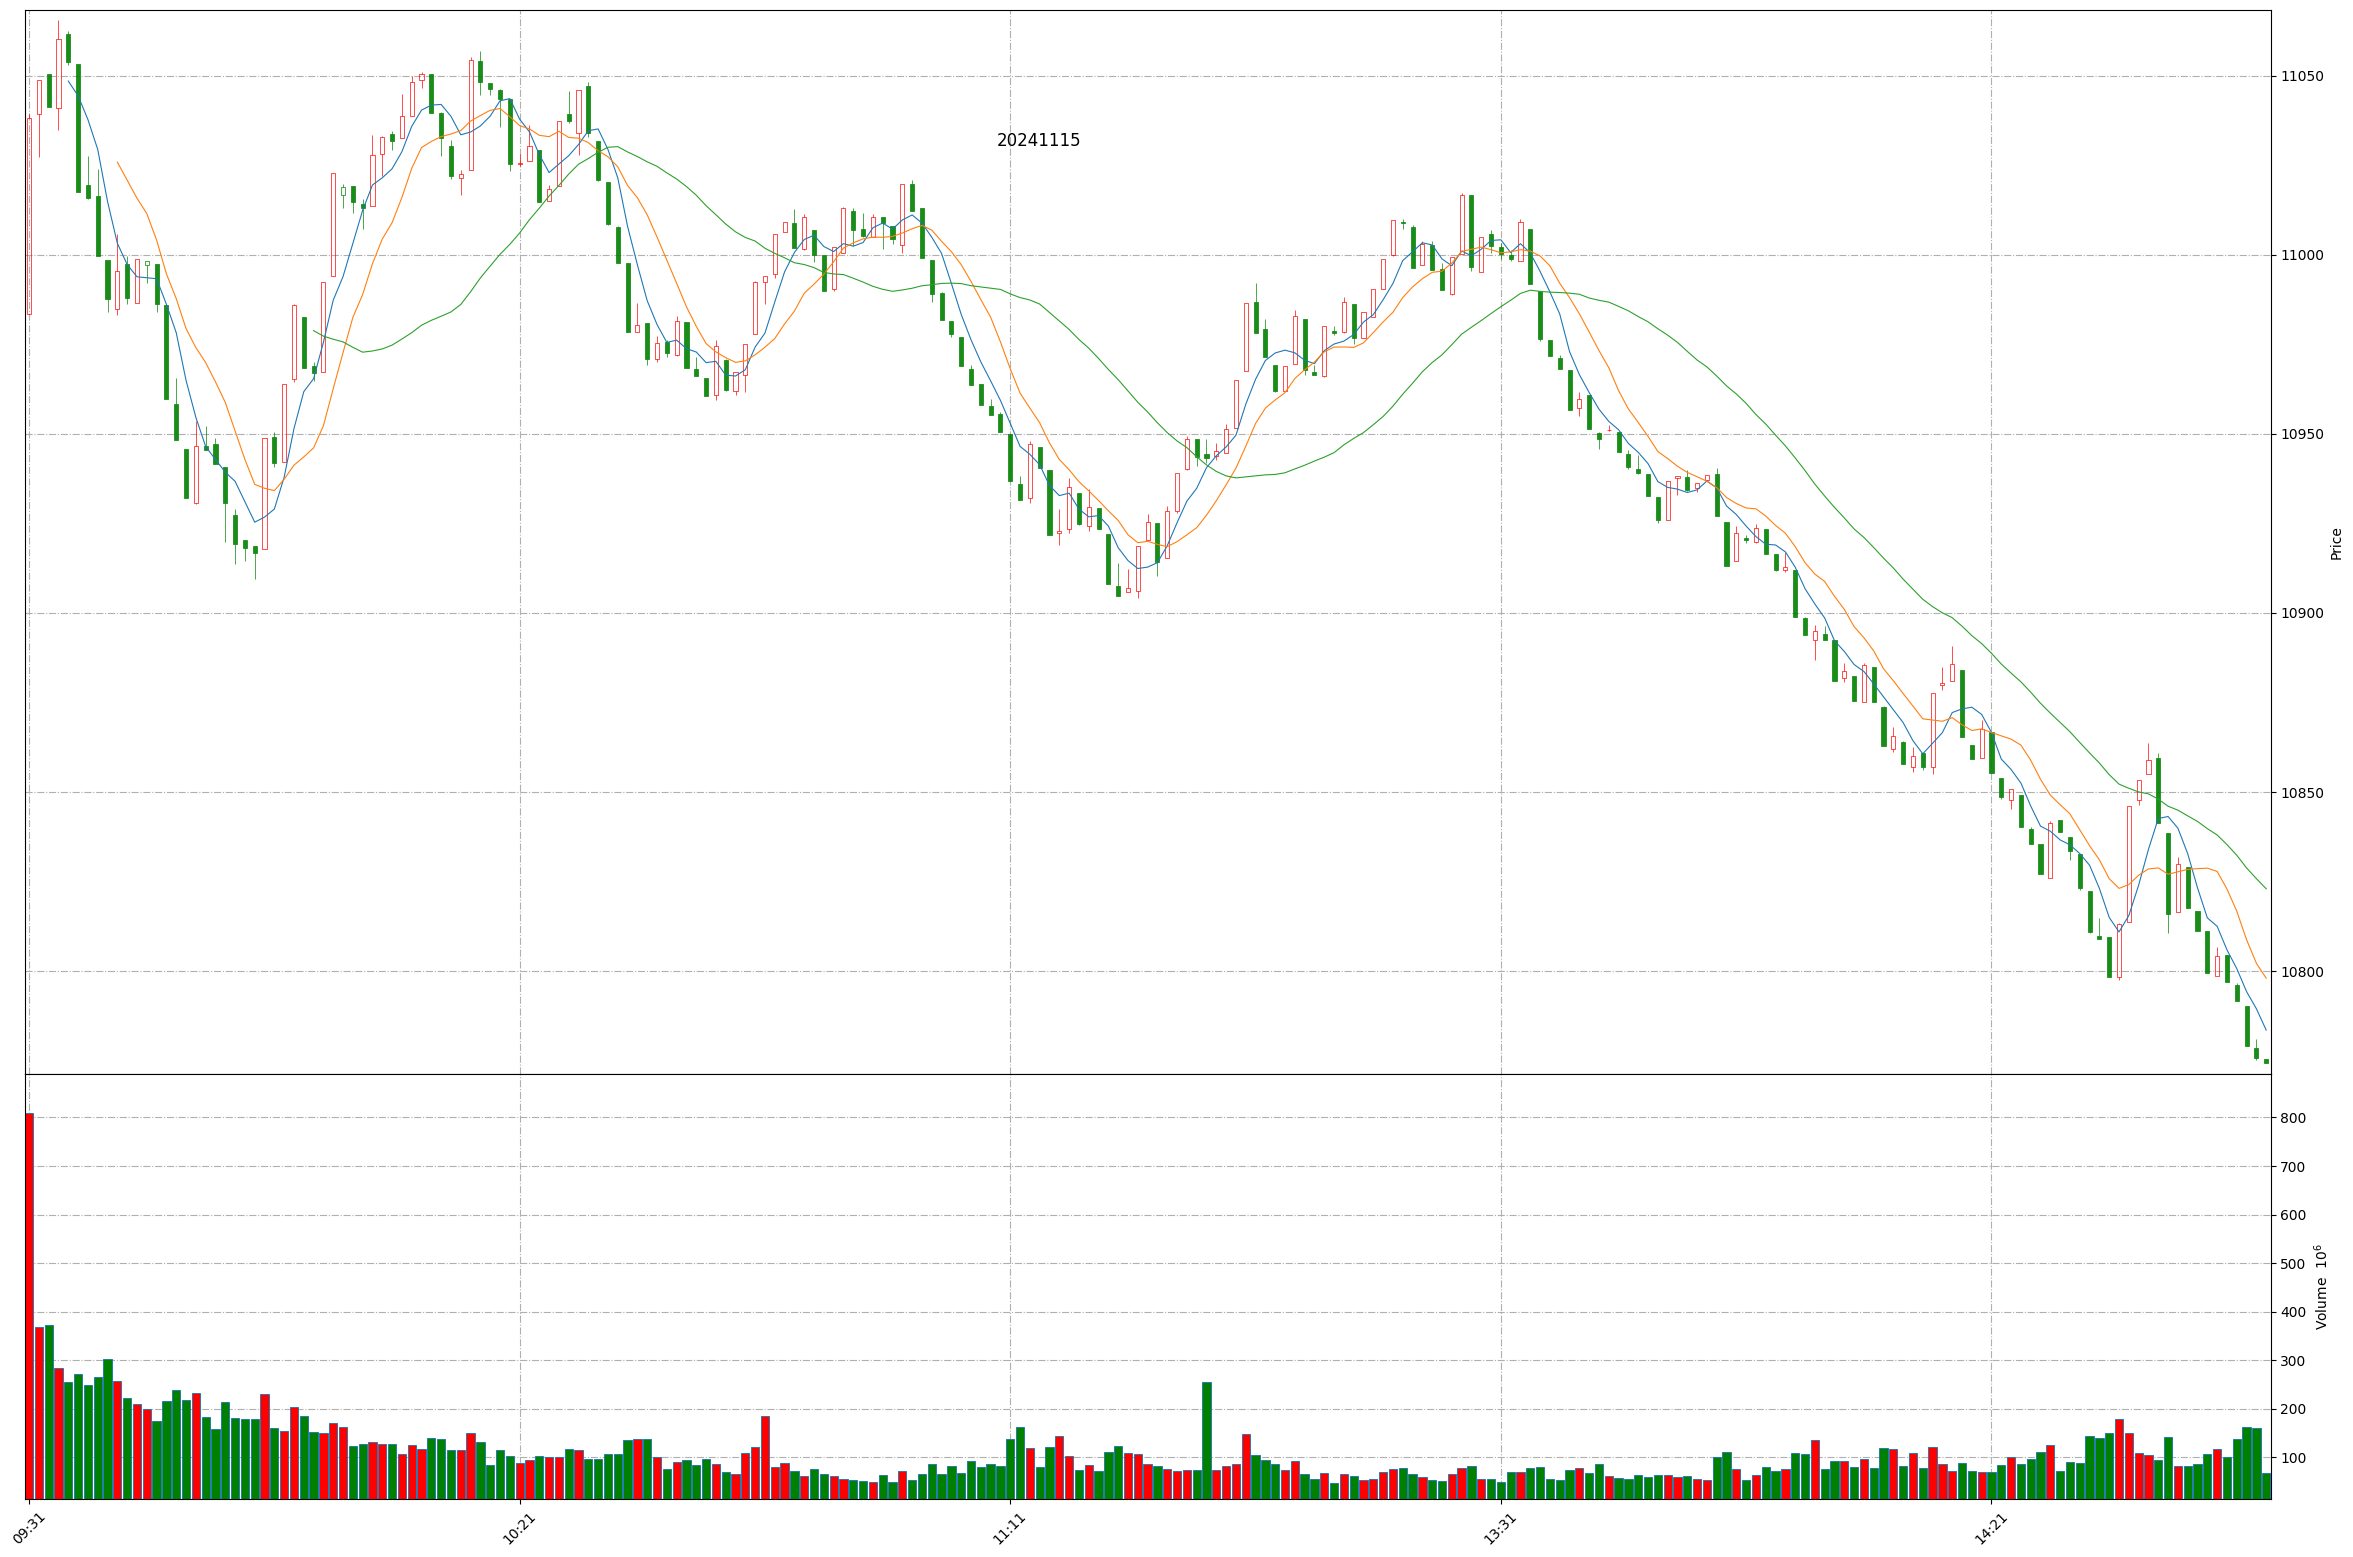
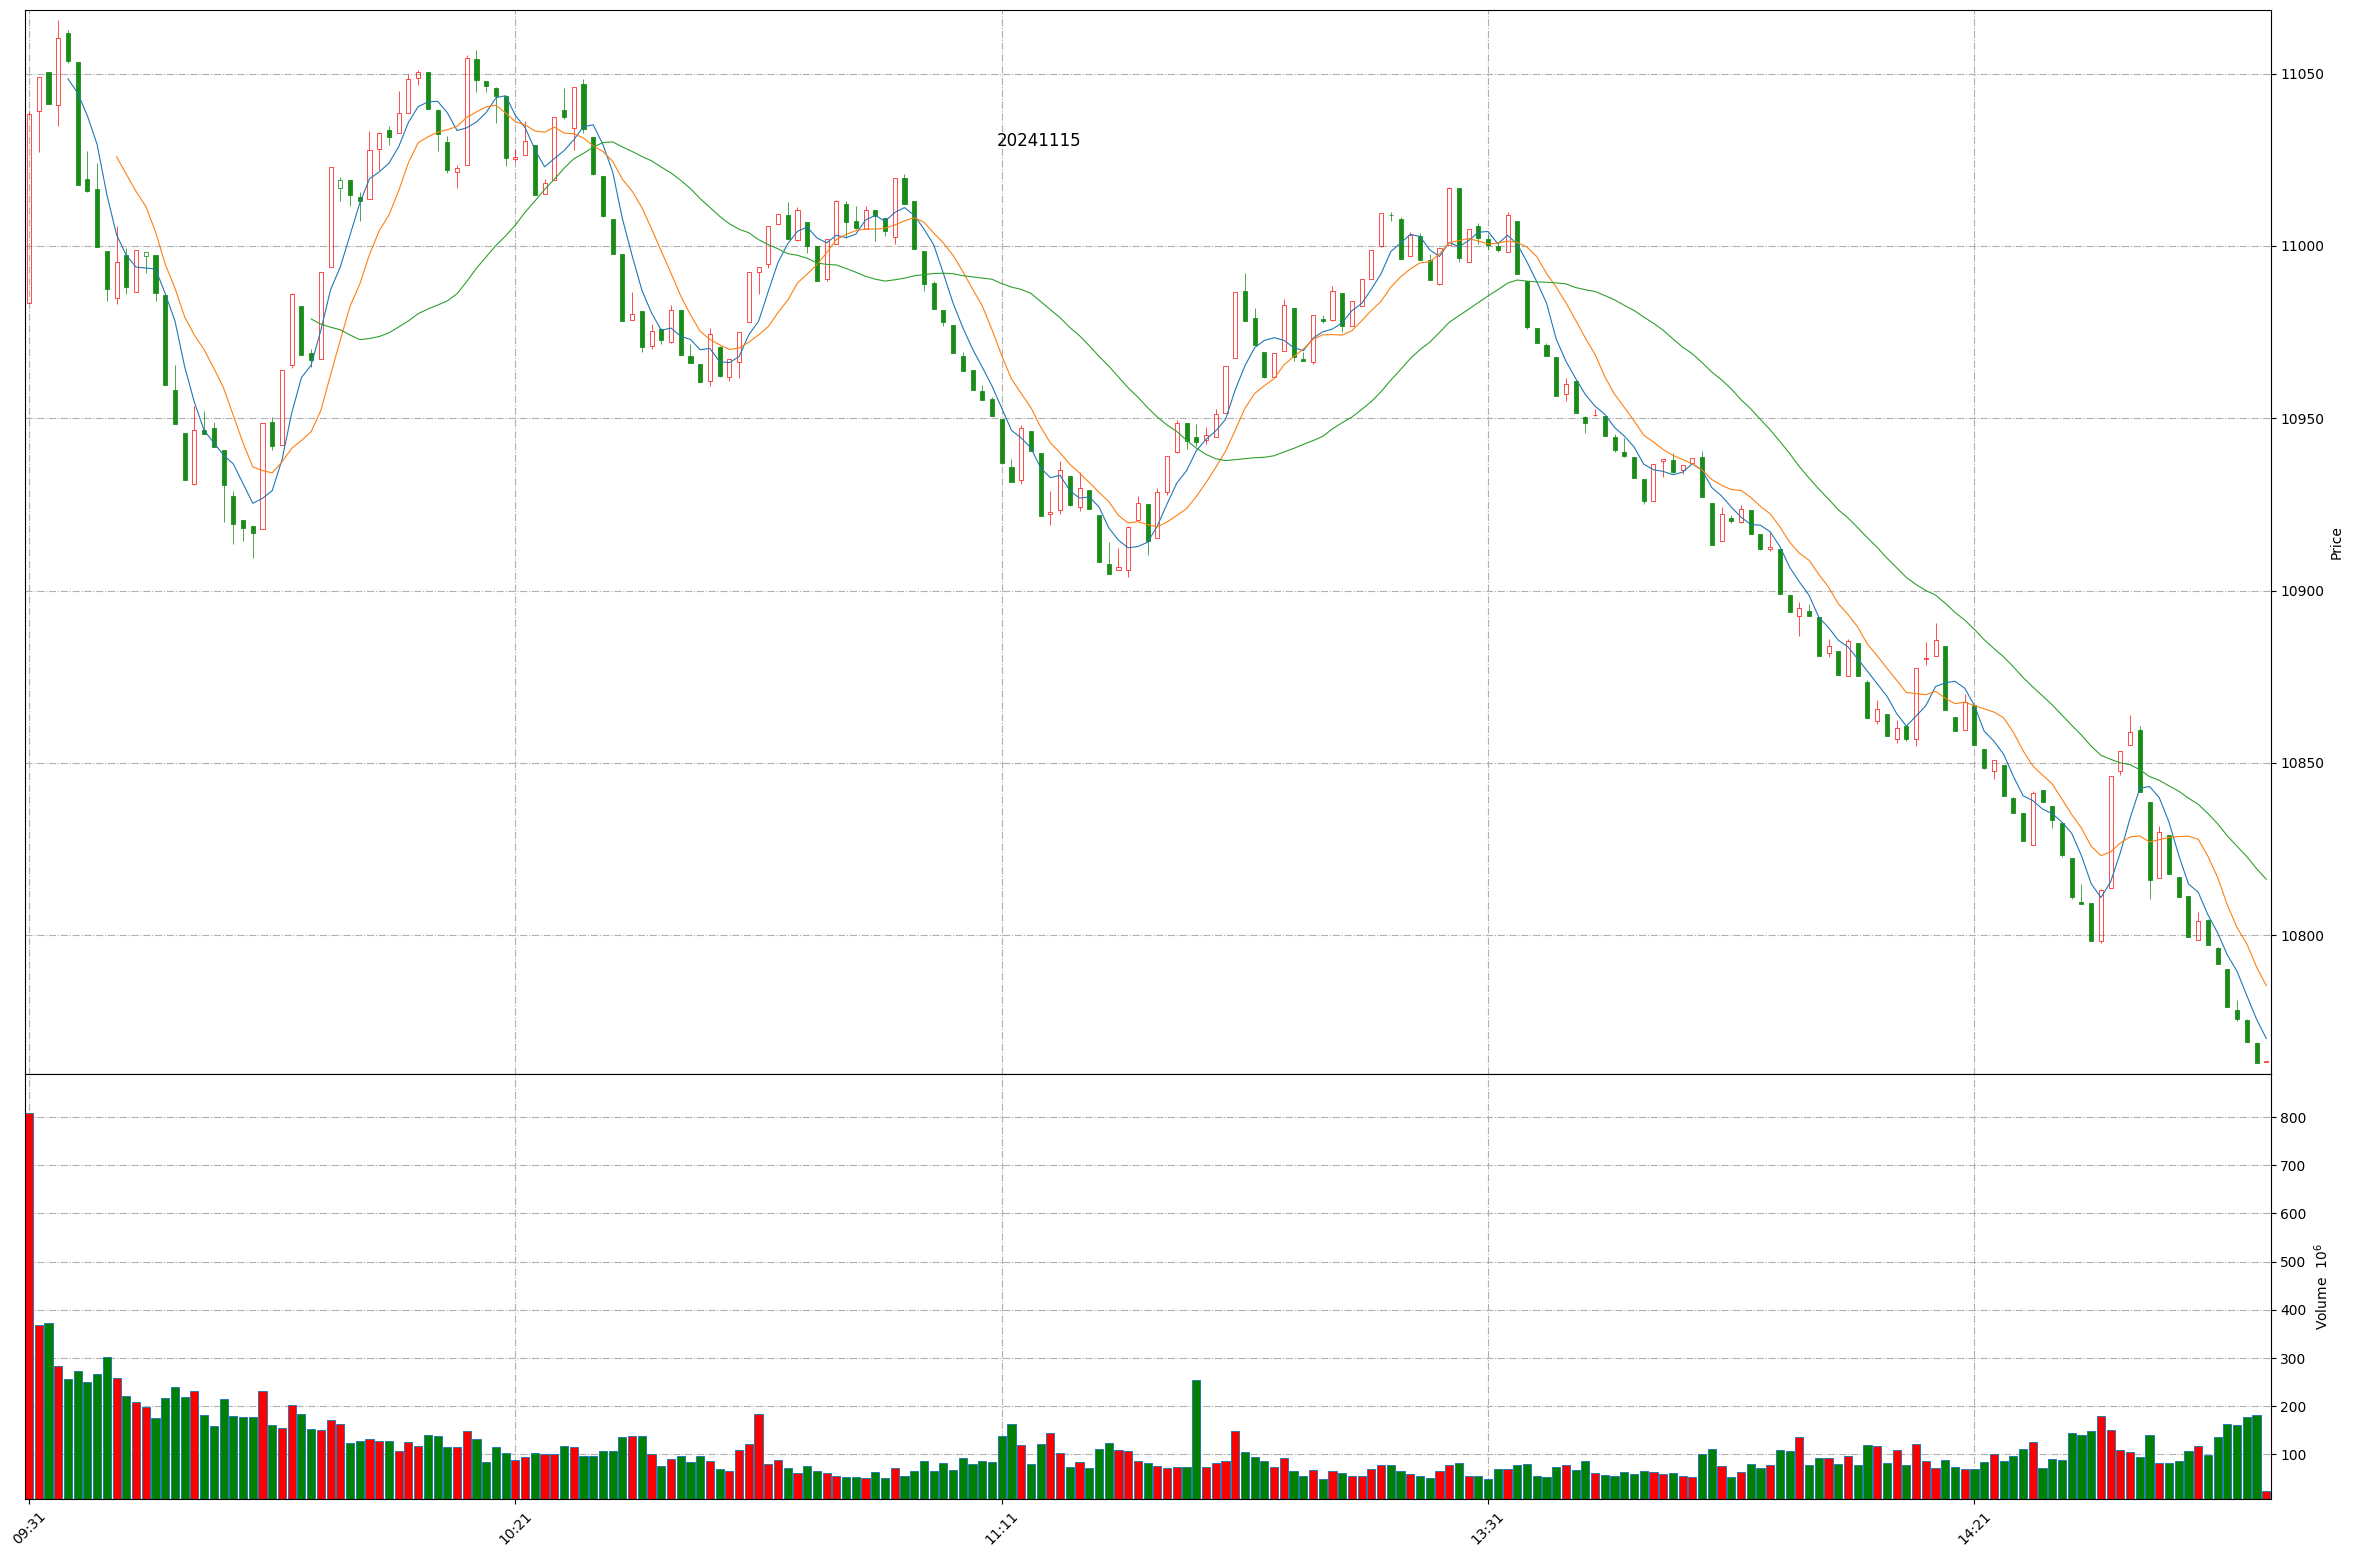
Github action update at 2024-11-15 14:50:25.

diff --git a/README.md b/README.md
@@ -1,11 +1,11 @@
 
 # Daily-A-share-market-quotes 每日 A 股指数（5min 更新）- 20241115
 
-### 上证指数 20241115 14:48
+### 上证指数 20241115 14:50
 ![](./fig/2024/11/20241115-sh000001.png)
 
-### 深证成指 20241115 14:48
+### 深证成指 20241115 14:50
 ![](./fig/2024/11/20241115-sz399001.png)
 
-### 北证50 20241115 14:48
+### 北证50 20241115 14:50
 ![](./fig/2024/11/20241115-bj899050.png)
